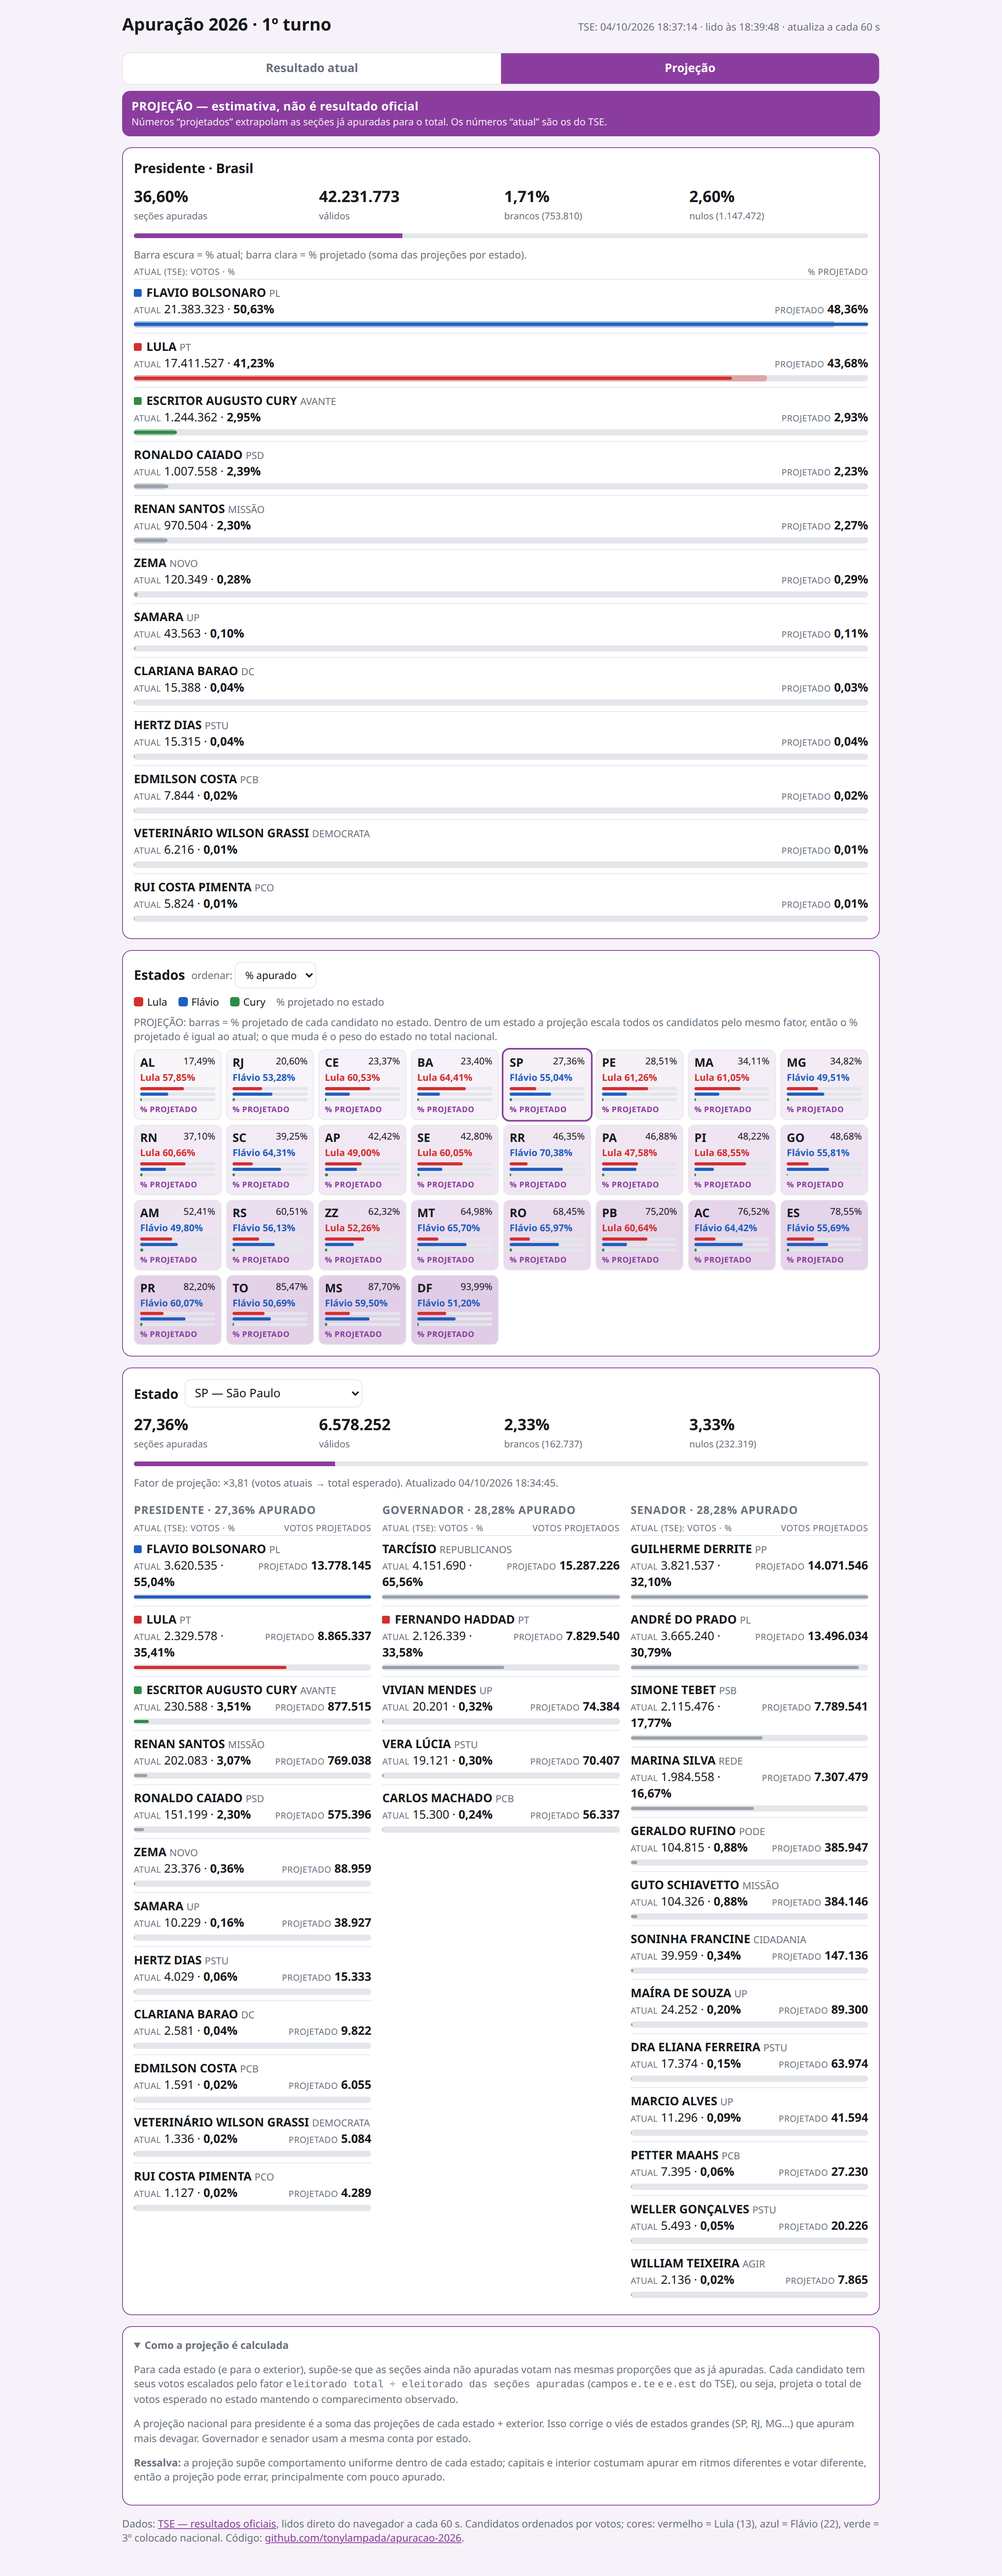
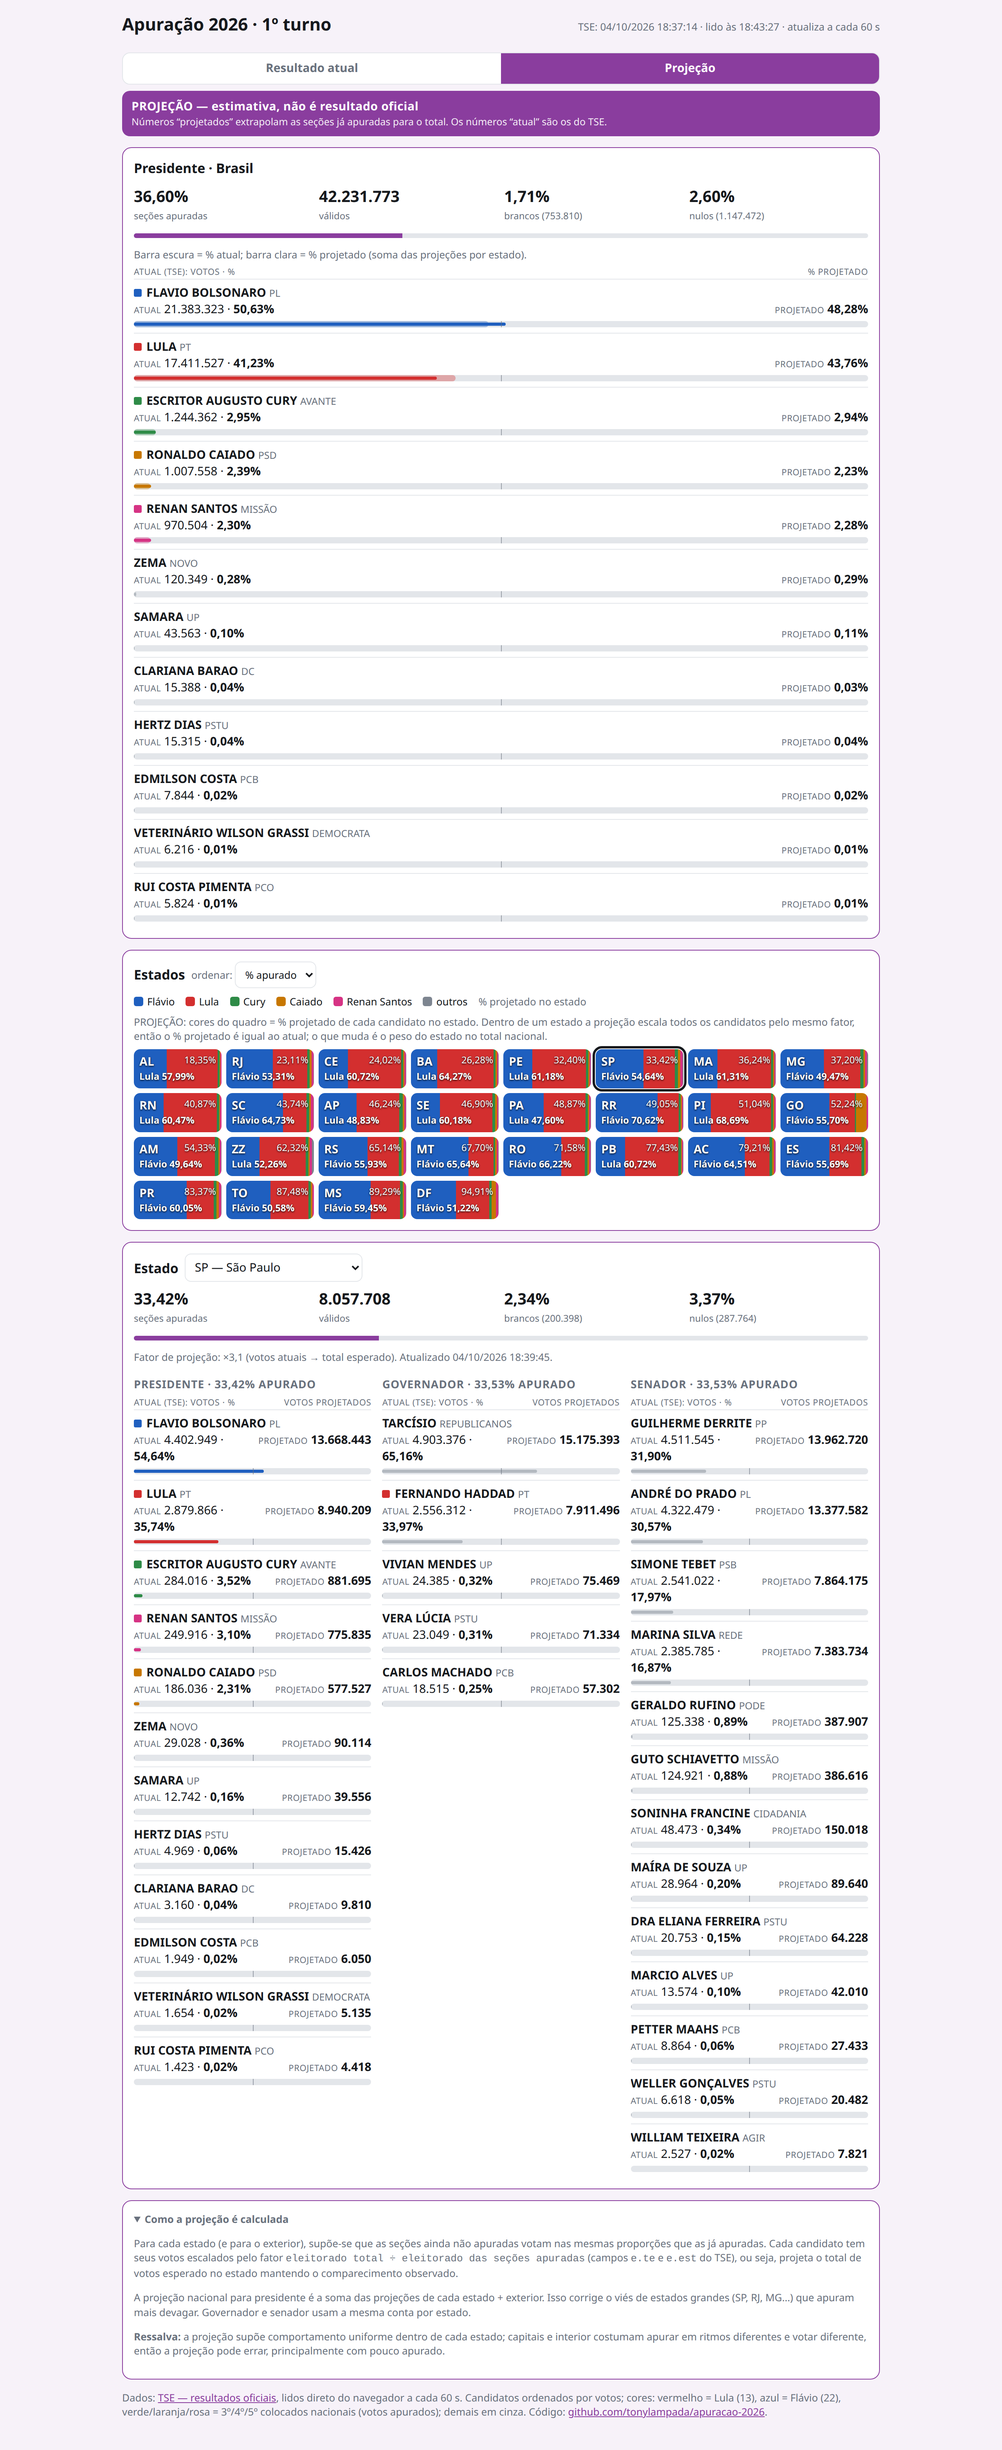
Tiles as stacked candidate bars (top 5 colored), absolute 0-100% list bars with 50% tick (SLM-73)

Changed region(s): [[0.125, 0.0, 0.875, 0.9971]]

diff --git a/site/index.html b/site/index.html
@@ -5,8 +5,8 @@
 <meta name="viewport" content="width=device-width, initial-scale=1">
 <title>Apuração 2026</title>
 <style>
-:root{--bg:#f6f7f9;--card:#fff;--ink:#16191d;--mut:#69717d;--line:#e3e6ea;--bar:#5b6b7f;--proj:#c2cad4;--acc:#2d5b8a;--warn:#a35d00;--pacc:#8a3d9e;--pbg:#f7f2f9;--c13:#d32f2f;--c22:#1f5fbf;--c3:#2e8b47;--cx:#9aa1aa}
-@media (prefers-color-scheme:dark){:root{--bg:#111316;--card:#1a1d21;--ink:#e8eaed;--mut:#9aa2ad;--line:#2a2f35;--bar:#8fa3ba;--proj:#3a434e;--acc:#8db6e0;--warn:#e0a050;--pacc:#b06ccc;--pbg:#17121a;--c13:#f05a55;--c22:#5c9df2;--c3:#4cc46a;--cx:#6b737d}}
+:root{--bg:#f6f7f9;--card:#fff;--ink:#16191d;--mut:#69717d;--line:#e3e6ea;--bar:#5b6b7f;--proj:#c2cad4;--acc:#2d5b8a;--warn:#a35d00;--pacc:#8a3d9e;--pbg:#f7f2f9;--c13:#d32f2f;--c22:#1f5fbf;--c3:#2e8b47;--c4:#c77700;--c5:#d63384;--cx:#b3b9c0;--tg:#7d8590}
+@media (prefers-color-scheme:dark){:root{--bg:#111316;--card:#1a1d21;--ink:#e8eaed;--mut:#9aa2ad;--line:#2a2f35;--bar:#8fa3ba;--proj:#3a434e;--acc:#8db6e0;--warn:#e0a050;--pacc:#b06ccc;--pbg:#17121a;--c13:#f05a55;--c22:#5c9df2;--c3:#4cc46a;--c4:#f0a020;--c5:#f06ba8;--cx:#59616b;--tg:#4a525c}}
 *{box-sizing:border-box}
 body{margin:0;background:var(--bg);color:var(--ink);font:15px/1.4 system-ui,-apple-system,"Segoe UI",Roboto,sans-serif;-webkit-text-size-adjust:100%}
 main{max-width:1000px;margin:0 auto;padding:12px 16px 40px}
@@ -28,21 +28,19 @@ h3{font-size:14px;margin:16px 0 6px;text-transform:uppercase;letter-spacing:.04e
 .cand .pj{font-variant-numeric:tabular-nums;text-align:right;font-weight:700;min-width:62px}
 .cand .sub{grid-column:1/-1;font-size:12px;color:var(--mut);font-variant-numeric:tabular-nums}
 .bars{grid-column:1/-1;position:relative;height:8px;background:var(--line);border-radius:4px;margin-top:4px;overflow:hidden}
-.bars i{position:absolute;left:0;top:0;bottom:0;border-radius:4px;background:var(--cc,var(--cx))}.bars .p{opacity:.35}.bars .a{height:4px;top:2px}
+.bars i{position:absolute;left:0;top:0;bottom:0;border-radius:4px;background:var(--cc,var(--cx))}.bars .p{opacity:.35}.bars::after{content:"";position:absolute;left:50%;top:0;bottom:0;width:1px;background:var(--mut);opacity:.6}.bars .a{height:4px;top:2px}
 .colh{display:grid;grid-template-columns:minmax(0,1fr) auto;gap:0 10px;font-size:11px;color:var(--mut);text-transform:uppercase;letter-spacing:.04em}
 .colh span:nth-child(2){text-align:right;min-width:62px}
 .tag{display:inline-block;font-size:11px;padding:1px 6px;border-radius:9px;border:1px solid var(--line);color:var(--mut);margin-left:4px;font-weight:600}
 .tag.el{border-color:var(--acc);color:var(--acc)}
 .note{font-size:13px;color:var(--mut)}
 .grid{display:grid;grid-template-columns:repeat(auto-fill,minmax(104px,1fr));gap:6px}
-.uf{position:relative;border:1px solid var(--line);border-radius:8px;padding:6px 7px;cursor:pointer;background:var(--card);overflow:hidden;min-width:0;font:inherit;color:inherit;text-align:left}
-.uf::before{content:"";position:absolute;inset:0;background:var(--acc);opacity:calc(var(--p) * .28)}
-.uf>*{position:relative}.uf.sel{outline:2px solid var(--acc)}
+.uf{position:relative;border:0;border-radius:8px;padding:6px 7px;cursor:pointer;overflow:hidden;min-width:0;font:inherit;color:#fff;text-align:left;text-shadow:0 1px 2px rgba(0,0,0,.75),0 0 1px rgba(0,0,0,.6)}
+.uf.sel{outline:3px solid var(--ink);outline-offset:1px}
 .uf b{font-size:15px}.uf .pc{float:right;font-size:12px;font-variant-numeric:tabular-nums}
-.uf .ld{display:block;font-size:12px;white-space:nowrap;overflow:hidden;text-overflow:ellipsis;font-weight:600;color:var(--cc,var(--mut));font-variant-numeric:tabular-nums}
-.uf .tb{display:block;height:4px;margin-top:3px;background:var(--line);border-radius:2px;overflow:hidden}.uf .tb i{display:block;height:100%;background:var(--cc);border-radius:2px}
-.uf .pl{display:block;font-size:10px;margin-top:3px;text-transform:uppercase;letter-spacing:.04em;color:var(--pacc);font-weight:700}
-.leg{display:flex;flex-wrap:wrap;gap:4px 14px;font-size:13px;margin-bottom:8px}.leg span{display:inline-flex;align-items:center;gap:5px}.leg i{width:12px;height:12px;border-radius:3px;background:var(--cc)}
+.uf .ld{display:block;font-size:12px;white-space:nowrap;overflow:hidden;text-overflow:ellipsis;font-weight:700;font-variant-numeric:tabular-nums}
+
+.leg{display:flex;flex-wrap:wrap;gap:4px 14px;font-size:13px;margin-bottom:8px}.leg span{display:inline-flex;align-items:center;gap:5px}.leg i{width:12px;height:12px;border-radius:3px;background:var(--cc,var(--tg))}
 .cand .nm .sw{display:inline-block;width:10px;height:10px;border-radius:2px;background:var(--cc);margin-right:6px}
 .row{display:flex;gap:8px;align-items:center;flex-wrap:wrap;margin-bottom:8px}
 select{font:inherit;padding:6px 8px;border-radius:8px;border:1px solid var(--line);background:var(--card);color:var(--ink)}
@@ -86,8 +84,8 @@ body.proj .card{border-color:var(--pacc)}
   <div class="row"><h2 style="margin:0">Estados</h2>
     <span class="sortb">ordenar: <select id="sort"><option value="pst">% apurado</option><option value="te">eleitorado</option><option value="uf">sigla</option></select></span></div>
   <div class="leg" id="leg"></div>
-  <div class="note only-atual" style="margin-bottom:8px">Barras = % dos votos válidos de cada candidato no estado. Fundo = % de seções apuradas. Toque num estado para detalhar.</div>
-  <div class="note only-proj" style="margin-bottom:8px">PROJEÇÃO: barras = % projetado de cada candidato no estado. Dentro de um estado a projeção escala todos os candidatos pelo mesmo fator, então o % projetado é igual ao atual; o que muda é o peso do estado no total nacional.</div>
+  <div class="note only-atual" style="margin-bottom:8px">Cor do quadro = % dos votos válidos de cada candidato no estado, da esquerda para a direita (cinza = outros). Canto = % de seções apuradas. Toque num estado para detalhar.</div>
+  <div class="note only-proj" style="margin-bottom:8px">PROJEÇÃO: cores do quadro = % projetado de cada candidato no estado. Dentro de um estado a projeção escala todos os candidatos pelo mesmo fator, então o % projetado é igual ao atual; o que muda é o peso do estado no total nacional.</div>
   <div class="grid" id="grid"></div>
 </section>
 
@@ -104,8 +102,8 @@ body.proj .card{border-color:var(--pacc)}
 
 </details>
 </section>
-<footer class="note">Dados: <a href="https://resultados.tse.jus.br/oficial/app/index.html">TSE — resultados oficiais</a>, lidos direto do navegador a cada 60 s. Candidatos ordenados por votos; cores: vermelho = Lula (13), azul = Flávio (22), verde = 3º colocado nacional. Código: <a href="https://github.com/tonylampada/apuracao-2026">github.com/tonylampada/apuracao-2026</a>.</footer>
+<footer class="note">Dados: <a href="https://resultados.tse.jus.br/oficial/app/index.html">TSE — resultados oficiais</a>, lidos direto do navegador a cada 60 s. Candidatos ordenados por votos; cores: vermelho = Lula (13), azul = Flávio (22), verde/laranja/rosa = 3º/4º/5º colocados nacionais (votos apurados); demais em cinza. Código: <a href="https://github.com/tonylampada/apuracao-2026">github.com/tonylampada/apuracao-2026</a>.</footer>
 </main>
-<script src="app.js?v=4"></script>
+<script src="app.js?v=7"></script>
 </body>
 </html>

diff --git a/site/app.js b/site/app.js
@@ -38,22 +38,24 @@ let mode = "atual";     // "atual" = TSE numbers only; "proj" = projection of th
 try { if (localStorage.getItem("modo") === "proj") mode = "proj"; } catch {}
 const P = () => mode === "proj";
 
-// Candidate colours by ballot number (captain's call): 13 Lula red, 22 Flávio blue, 3rd nationally green, rest grey.
-const CURTO = {13: "Lula", 22: "Flávio"};
+// Candidate colours by ballot number (captain's call): 13 Lula red, 22 Flávio blue, then the national 3rd/4th/5th
+// by counted votes green/amber/pink; everyone else grey.
+const CURTO = {13: "Lula", 22: "Flávio", 14: "Renan Santos"};
 const curto = c => CURTO[c.n] || c.nome.split(" ").pop().toLowerCase().replace(/^./, s => s.toUpperCase());
-const terceiro = () => pres.br?.cands.find(c => c.n !== "13" && c.n !== "22");
-const cor = n => n === "13" ? "var(--c13)" : n === "22" ? "var(--c22)" : n === terceiro()?.n ? "var(--c3)" : "";
+const top5 = () => ["13", "22", ...(pres.br?.cands ?? []).map(c => c.n).filter(n => n !== "13" && n !== "22").slice(0, 3)];
+const COR = ["var(--c13)", "var(--c22)", "var(--c3)", "var(--c4)", "var(--c5)"];
+const cor = n => COR[top5().indexOf(n)] || "";
 const cc = n => cor(n) ? ` style="--cc:${cor(n)}"` : "";
 
 // Current mode: votes and % as TSE reports. Projection mode: projected figure first, current beside it, labelled.
 function candRows(list, opts) {
-  const proj = P(), max = Math.max(...list.map(c => proj && opts.projPct ? Math.max(c.pct, c.ppct) : c.pct), 1);
+  const proj = P();   // bar widths are absolute % of valid votes on a 0-100 scale
   const head = proj ? `<div class="colh"><span>atual (TSE): votos · %</span><span>${opts.projPct ? "% projetado" : "votos projetados"}</span></div>` : "";
   return head + list.map(c => `<div class="cand">
       <span class="nm"${cc(c.n)}>${cor(c.n) ? '<i class="sw"></i>' : ""}${esc(c.nome)} <small>${esc(c.sg)}</small>${c.eleito ? '<span class="tag el">eleito</span>' : ""}</span>
       <span class="v">${proj ? '<small class="lab">atual</small> ' : ""}${fmt(c.votos)} · <b>${pct(c.pct)}</b></span>
       ${proj ? `<span class="pj"><small class="lab">projetado</small> ${opts.projPct ? pct(c.ppct) : fmt(c.proj)}</span>` : "<span></span>"}
-      <span class="bars"${opts.color ? cc(c.n) : ""}>${proj && opts.projPct ? `<i class="p" style="width:${c.ppct / max * 100}%"></i>` : ""}<i class="a${proj ? "" : " full"}" style="width:${c.pct / max * 100}%"></i></span>
+      <span class="bars"${opts.color ? cc(c.n) : ""}>${proj && opts.projPct ? `<i class="p" style="width:${c.ppct}%"></i>` : ""}<i class="a${proj ? "" : " full"}" style="width:${c.pct}%"></i></span>
     </div>`).join("");
 }
 
@@ -85,17 +87,20 @@ function renderBR() {
 function renderGrid() {
   const key = $("#sort").value;
   const ufs = UFS.filter(u => pres[u]).sort((a, b) => key === "uf" ? a.localeCompare(b) : key === "te" ? pres[b].te - pres[a].te : pres[a].pst - pres[b].pst);
-  const t = terceiro();
-  $("#leg").innerHTML = [["13", "Lula"], ["22", "Flávio"], [t?.n, t && curto(t)]].filter(x => x[0])
-    .map(([n, s]) => `<span${cc(n)}><i></i>${esc(s)}</span>`).join("") + `<span style="color:var(--mut)">${P() ? "% projetado" : "% dos válidos"} no estado</span>`;
+  const t = top5();
+  $("#leg").innerHTML = ["22", "13", ...t.slice(2)].map(n => pres.br.cands.find(c => c.n === n)).filter(Boolean)
+    .map(c => `<span${cc(c.n)}><i></i>${esc(curto(c))}</span>`).join("") + `<span><i></i>outros</span>` + `<span style="color:var(--mut)">${P() ? "% projetado" : "% dos válidos"} no estado</span>`;
   $("#grid").innerHTML = ufs.map(u => {
     const r = pres[u], l = r.cands[0];
     // within a state every candidate is scaled by the same factor, so projected % == current %
-    const bars = ["13", "22", t?.n].map(n => r.cands.find(c => c.n === n)).filter(Boolean)
-      .map(c => `<span class="tb"${cc(c.n)} title="${esc(curto(c))} ${pct(c.pct)}"><i style="width:${c.pct}%"></i></span>`).join("");
-    return `<button class="uf${u === sel ? " sel" : ""}" style="--p:${r.pst / 100}" data-uf="${u}">
+    // the tile is a stacked bar: Flávio, Lula, national 3rd-5th left to right, grey remainder = everyone else
+    let x = 0;
+    const seg = ["22", "13", ...t.slice(2)].map(n => r.cands.find(c => c.n === n)).filter(Boolean)
+      .map(c => `${cor(c.n)} ${x}% ${x = Math.min(100, x + c.pct)}%`);
+    const tip = r.cands.filter(c => cor(c.n)).map(c => `${curto(c)} ${pct(c.pct)}`).join(" · ");
+    return `<button class="uf${u === sel ? " sel" : ""}" style="background:linear-gradient(90deg,${[...seg, `var(--tg) ${x}% 100%`].join(",")})" data-uf="${u}" title="${esc(tip)}">
       <b>${u.toUpperCase()}</b><span class="pc">${pct(r.pst)}</span>
-      <span class="ld"${cc(l?.n)}>${l ? esc(curto(l)) + " " + pct(l.pct) : "—"}</span>${bars}${P() ? '<small class="pl">% projetado</small>' : ""}</button>`;
+      <span class="ld">${l ? esc(curto(l)) + " " + pct(l.pct) : "—"}</span></button>`;
   }).join("");
 }
 

diff --git a/README.md b/README.md
@@ -9,9 +9,9 @@ and president/governor/senator per state. The default view is the current TSE co
 "Resultado atual | Projeção" toggle (remembered in localStorage) switches to the projection of the final
 1st-round result, clearly labelled as an estimate (projected numbers only, no winner/50% verdict text).
 
-Candidate colours are keyed by ballot number: 13 (Lula) red, 22 (Flávio) blue, the 3rd place in the
-national ranking green, everyone else grey. Each state tile has three thin bars with those candidates'
-% of valid votes in the state.
+Candidate colours are keyed by ballot number: 13 (Lula) red, 22 (Flávio) blue, then the national 3rd/4th/5th
+by counted votes green/amber/pink, everyone else grey. Each state tile's background is a stacked bar
+(Flávio, Lula, 3rd-5th, grey remainder) with widths = % of valid votes in the state.
 
 ## Projection
 For each state (and abroad, `zz`), the uncounted sections are assumed to vote like the counted ones:
